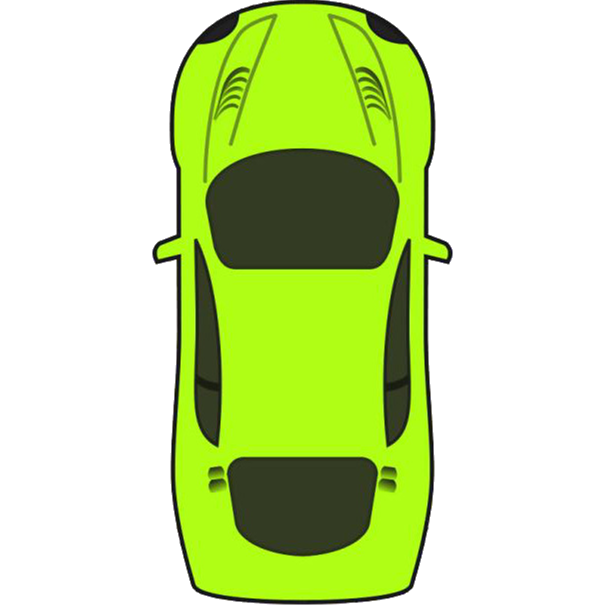
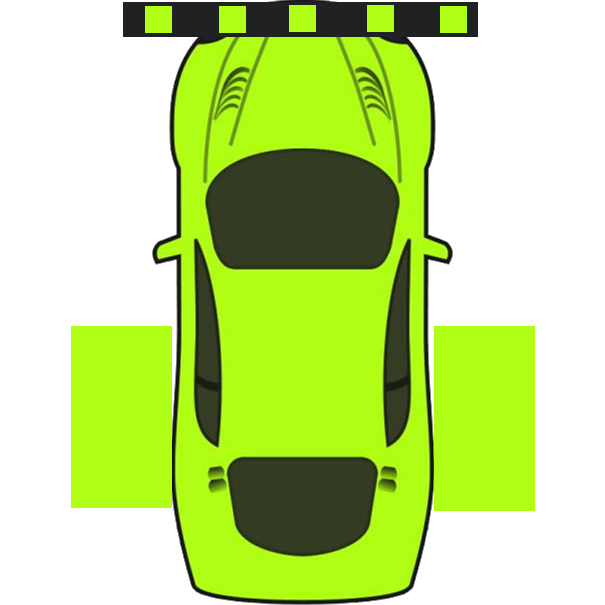
Implemented SingleCurveGenerator. Main loop draws a simple curve. Added Track class placeholder

Changed region(s): [[0.714, 0.5355, 0.8926, 0.8628], [0.119, 0.5355, 0.2975, 0.8628], [0.1785, 0.0, 0.8033, 0.0595]]

diff --git a/alphaBotSimulator/src/SingleCurveGenerator.cpp b/alphaBotSimulator/src/SingleCurveGenerator.cpp
@@ -1,0 +1,74 @@
+#include "SingleCurveGenerator.h"
+#include <cmath>
+#include <iostream>
+using namespace std;
+
+SingleCurveGenerator:: SingleCurveGenerator(size_t numOfSegments, const vector<pair<double, double>>& controlPoints):numOfSegments(numOfSegments),
+    controlPoints(controlPoints.begin(), controlPoints.end())
+{
+    for(int i = 0; i < controlPoints.size(); i++)
+    {
+        cout << "[" << controlPoints[i].first << "; " << controlPoints[i].second << "] ";
+    }
+    cout << endl;
+    this->order = controlPoints.size() - 1;
+}
+
+SingleCurveGenerator:: ~SingleCurveGenerator()
+{
+
+}
+
+int SingleCurveGenerator:: Newton(int k)
+{
+    int num = 1;
+    int denom = 1;
+    if(newtonCache.find(make_pair(order, k)) == newtonCache.end())
+    {
+        for(unsigned int i = order - k + 1; i < order + 1; i++)
+        {
+            num *= i;
+        }
+        for(int i = 1; i < k + 1; i++)
+        {
+            denom *= i;
+        }
+        newtonCache[make_pair(order, k)] = num / denom;
+    }
+
+    return newtonCache[make_pair(order, k)];
+}
+
+double SingleCurveGenerator:: Bernstein(int i, double t)
+{
+    // Newton(n,i) * (t**i) * (1.0-t)**(n-i)
+    //cout << Newton(i) << endl;
+    return (double)Newton(i) * pow(t, (double)i) * pow(1.0 - t, (double)(order - i));
+}
+
+//vector<pair<double, double>> controlPoints;
+pair<double, double> SingleCurveGenerator:: p(double t)
+{
+    double x = 0.0;
+    double y = 0.0;
+    for(unsigned int i = 0; i < controlPoints.size(); i++)
+    {
+        x += controlPoints[i].first * Bernstein(i, t);
+
+        cout << "i = " << i << "; t = " << t << "; " << Bernstein(i, t) << endl;
+        y += controlPoints[i].second * Bernstein(i, t);
+    }
+    return make_pair(x, y);
+}
+
+vector<pair<double, double>> SingleCurveGenerator:: Bezier2D()
+{
+    vector<pair<double, double>> res;
+    double dt = 1.0 / (double)numOfSegments;
+    for(unsigned int i = 0; i < numOfSegments + 1; i++)
+    {
+        res.push_back(p(i * dt));
+    }
+    return res;
+}
+

diff --git a/alphaBotSimulator/main.cpp b/alphaBotSimulator/main.cpp
@@ -3,8 +3,10 @@
 #include <cmath>
 #include "assets.h"
 #include "car.h"
+#include "SingleCurveGenerator.h"
 int width = 1200;
 int height = 800;
+using namespace std;
 
 int main()
 {
@@ -13,6 +15,27 @@ int main()
 
     assets::loadTextures("assets");
     car c;
+    //SingleCurveGenerator scg(20, {make_pair(11.21, 21.324), make_pair(1.23, 0.11), make_pair(30.2, 11.0), make_pair(123.33, 232.22)});
+    int segm = 3000;
+    SingleCurveGenerator scg(segm,
+    {
+        make_pair(110.21, 210.324),
+        make_pair(10.23, 10.11),
+        make_pair(200.2, 110.0),
+        make_pair(230.33, 320.22),
+        make_pair(430.22, 573.75),
+        make_pair(830.22, 773.75)
+    });
+    vector<pair<double, double>> res = scg.Bezier2D();
+    sf::VertexArray vertices(sf::Points, res.size());
+
+    cout << "Bezier2D(): " << endl;
+    for(int i = 0; i < res.size(); i++)
+    {
+        cout << res[i].first << "; " << res[i].second << endl;
+        vertices[i].position = sf::Vector2f(res[i].first, res[i].second);
+        vertices[i].color = sf::Color::Red;
+    }
 
 
     while (window.isOpen())
@@ -29,6 +52,7 @@ int main()
         window.clear();
         // method drawObjects etc
         //window.draw(*t.getSprite());
+        window.draw(vertices);
         window.draw(*c.getSprite());
         window.display();
     }

diff --git a/alphaBotSimulator/include/SingleCurveGenerator.h b/alphaBotSimulator/include/SingleCurveGenerator.h
@@ -1,0 +1,26 @@
+#ifndef MATHHELPER_H
+#define MATHHELPER_H
+#include <map>
+#include <vector>
+
+using namespace std;
+
+class SingleCurveGenerator
+{
+    public:
+        SingleCurveGenerator(size_t numOfSegments, const vector<pair<double, double>>& controlPoints);
+        ~SingleCurveGenerator();
+        vector<pair<double, double>> Bezier2D();
+
+    private:
+        pair<double, double> p(double t);
+        int Newton(int k);
+        double Bernstein(int i, double t);
+
+        map<pair<int, int>, int> newtonCache;
+        size_t numOfSegments;
+        vector<pair<double, double>> controlPoints;
+        size_t order;
+};
+
+#endif // MATHHELPER_H

diff --git a/alphaBotSimulator/src/car.cpp b/alphaBotSimulator/src/car.cpp
@@ -7,7 +7,7 @@ car::car()
     sprite = new sf::Sprite;
     sprite->setTexture(*assets::getTexture("car"));
     sprite->setOrigin(assets::getTexture("car")->getSize().x / 2.0, assets::getTexture("car")->getSize().y / 2.0);
-    sprite->setScale(0.1f, 0.1f);
+    sprite->setScale(0.2f, 0.2f);
     d = 4.2f;
     dir = 1.0f;
 }

diff --git a/alphaBotSimulator/include/track.h b/alphaBotSimulator/include/track.h
@@ -1,0 +1,18 @@
+#ifndef TRACK_H
+#define TRACK_H
+
+#include <SFML/Graphics.hpp>
+#include "assets.h"
+
+class track
+{
+    public:
+        track();
+        virtual ~track();
+
+    protected:
+
+    private:
+};
+
+#endif // TRACK_H

diff --git a/alphaBotSimulator/src/track.cpp b/alphaBotSimulator/src/track.cpp
@@ -1,0 +1,11 @@
+#include "track.h"
+
+track::track()
+{
+    //ctor
+}
+
+track::~track()
+{
+    //dtor
+}
